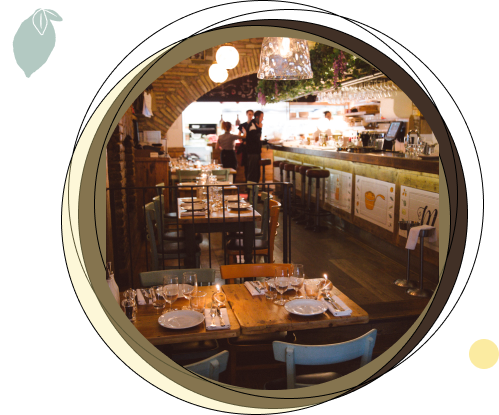
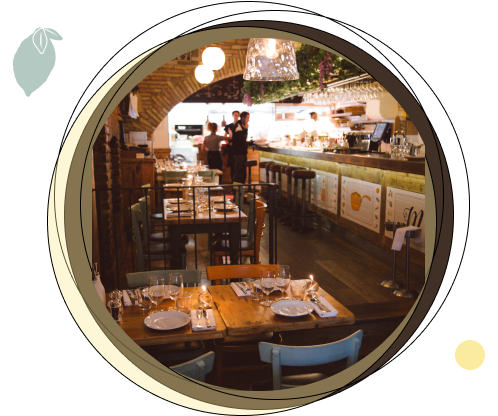
About us sections responsivness fixes

diff --git a/src/App.js b/src/App.js
@@ -44,16 +44,14 @@ const App = () => (
         <path d="M0 2.26829C315.486 263.797 1161.63 -122.985 1440 44.8544" stroke="black" />
       </svg>
 
-      <div className="row flex-lg-row-reverse align-items-center g-5 pb-5 negative-margin" id='about'>
-        <div className="col-10 col-sm-8 col-lg-6" style={{ backgroundImage: `url(${bgHeroText})`, backgroundSize: 'contain', backgroundRepeat: 'no-repeat', backgroundPosition: 'center' }}>
+      <div className="row align-items-center g-5 py-5 negative-margin" id='about'>
+        <div className="col-10 col-sm-8 col-lg-6 mx-auto" >
+          <img src={about_us_image} className="d-block img-fluid" alt="Bootstrap Themes" loading="lazy" />
+        </div>
+        <div className="col-lg-6 text-center text-lg-start" style={{ backgroundImage: `url(${bgHeroText})`, backgroundSize: 'contain', backgroundRepeat: 'no-repeat', backgroundPosition: 'center' }}>
           <h1 className="fw-bold text-body-emphasis lh-1 mb-3">About Us</h1>
           <p className="lead">We are a family-owned Mediterranean restaurant located in Chicago, Illinois. Our restaurant is known for its focus on traditional recipes served with a modern twist. The chefs draw inspiration from Italian, Greek, and Turkish cultures to create a unique fusion of flavors.</p>
-          <div className="d-grid gap-2 d-md-flex justify-content-md-start">
-            <button type="button" className="btn btn-warning rounded-pill px-3">More Details ↝</button>
-          </div>
-        </div>
-        <div className="col-lg-6">
-          <img src={about_us_image} className="d-block mx-lg-auto img-fluid" alt="Bootstrap Themes" loading="lazy" />
+          <button type="button" className="btn btn-warning rounded-pill px-3">More Details ↝</button>
         </div>
       </div>
 
@@ -175,7 +173,7 @@ const App = () => (
           </svg>
         </div>
         <div className="card w-75 mx-auto border-0 bg-transparent">
-          <div className="card-body brand_green_transparent rounded-2 pb-0">
+          <div className="card-body brand_green_transparent rounded-2 pb-0 text-center text-lg-start">
             <figure>
               <blockquote>
                 <q>
